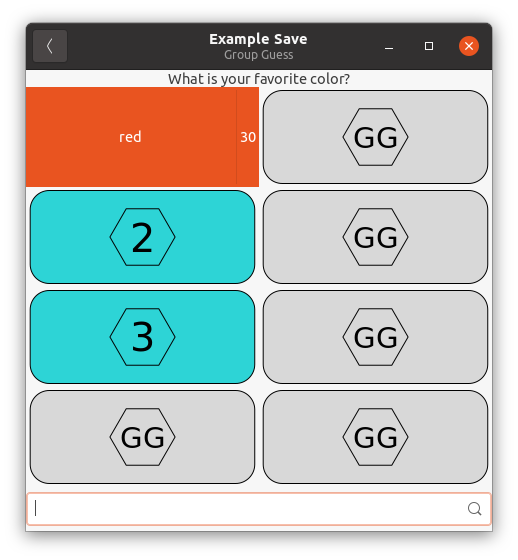
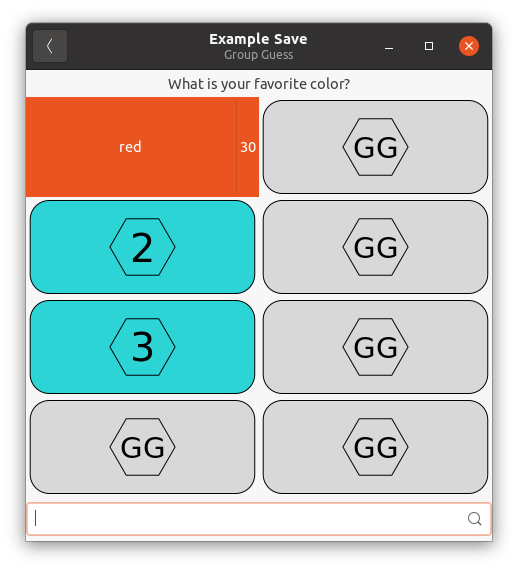
Fix alignment of Question Label and update image

diff --git a/group_guess/__init__.py b/group_guess/__init__.py
@@ -176,7 +176,7 @@ class Question(gtk.Box):
     self.entry_field.connect("activate", self.check_answer)
     # When icon clicked
     self.entry_field.connect("icon-press", self.check_answer_icon)
-    self.pack_start(self.question_lbl, False, False, 0)
+    self.pack_start(self.question_lbl, False, False, 5)
     self.pack_start(self.flowbox, False, False, 0)
     self.pack_start(self.entry_field, False, False, 5)
   def check_answer_icon(self, guess, *args):
